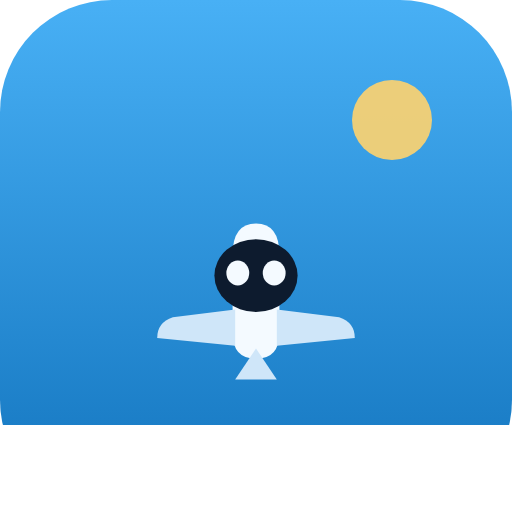
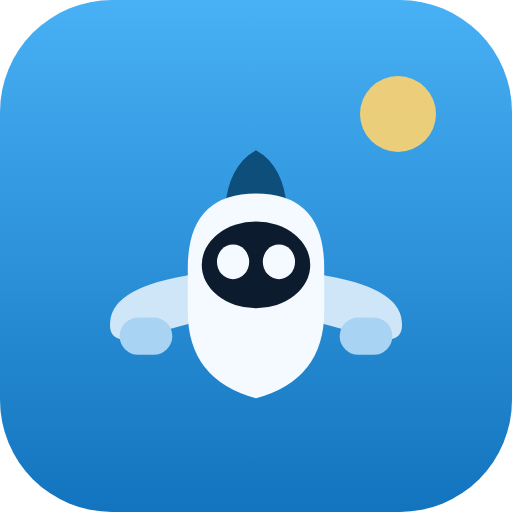
Redraw the plane mascots and make Lía a jefa de vuelo
- Avi is now a chubby widebody: wide fuselage, stubby wings, two fat
  engine nacelles, nose cone and correct navigation lights (red to port,
  green to starboard, as seen head-on)
- Jet is its opposite: slim fuselage, delta wings with winglets, aviator
  shades, orange belly stripe and afterburner
- Lía gets the flight purser look — service cap with a gold wing badge,
  neck scarf and rank stripes on both shoulders — and her role label
  changes from "Tripulante de cabina" to "Jefa de vuelo"; Rosa becomes
  "Instructora de cabina" so the two roles stay distinct
- The rank ladder uses the exam's own wording: "Jefe de vuelo" instead of
  "Jefe de cabina" (RAC hierarchy, exam question 25)
- App icon redrawn with the new widebody; the 192px PNG was a crop of the
  512px artwork's top-left corner, so all icons are re-rendered at their
  exact sizes

Claude-Session: https://claude.ai/code/session_01X74N5RUrDTr3YhcfPbwhmL

diff --git a/js/avatars.js b/js/avatars.js
@@ -23,29 +23,40 @@ CC.avatars = (function () {
   }
 
   const ART = {
-    /* ── Avión Avi ── */
+    /* ── Avi, el widebody regordete ── */
     avi: () => `
       <g>
-        <path d="M50 26 q9 0 9 12 v30 q0 10-9 10 t-9-10 V38 q0-12 9-12z" fill="#2FA8F5"/>
-        <path d="M18 62 q-6 2-6 8 l30 3 v-14z" fill="#1E86D0"/>
-        <path d="M82 62 q6 2 6 8 l-30 3 v-14z" fill="#1E86D0"/>
-        <path d="M50 74 l-8 12 h16z" fill="#1E86D0"/>
-        <ellipse cx="50" cy="46" rx="16" ry="14" fill="#EAF6FF"/>
-        ${face(50, 45, { spread: 7, eye: 4.4 })}
-        <circle cx="34" cy="80" r="3" fill="#FFB020"/><circle cx="66" cy="80" r="3" fill="#17C26A"/>
+        <path d="M50 12 q9 5 10 19 q-10-3-20 0 q1-14 10-19z" fill="#1A6FAE"/>
+        <path d="M30 52 q-26 4-27 15 q-1 7 7 6 l22-6z" fill="#1E86D0"/>
+        <path d="M70 52 q26 4 27 15 q1 7-7 6 l-22-6z" fill="#1E86D0"/>
+        <rect x="6" y="66" width="17" height="12" rx="6" fill="#15679E"/>
+        <rect x="77" y="66" width="17" height="12" rx="6" fill="#15679E"/>
+        <ellipse cx="14.5" cy="72" rx="4" ry="4.6" fill="#0E4E7B"/>
+        <ellipse cx="85.5" cy="72" rx="4" ry="4.6" fill="#0E4E7B"/>
+        <path d="M50 26 q22 0 22 24 v14 q0 22-22 28 q-22-6-22-28V50 q0-24 22-24z" fill="#2FA8F5"/>
+        <ellipse cx="50" cy="49" rx="17.5" ry="14" fill="#EAF6FF"/>
+        ${face(50, 48, { spread: 7.4, eye: 5.2 })}
+        <ellipse cx="50" cy="84" rx="11" ry="8" fill="#DCEBF8"/>
+        <circle cx="95" cy="73" r="2.8" fill="#FF4D5E"/><circle cx="5" cy="73" r="2.8" fill="#17C26A"/>
       </g>`,
 
-    /* ── Lía, tripulante de cabina ── */
+    /* ── Lía, jefa de vuelo ── */
     lia: () => `
       <g>
-        <path d="M28 88 q3-18 22-20 h0 q19 2 22 20z" fill="#123C6B"/>
-        <path d="M42 68 h16 v10 q-8 6-16 0z" fill="#F0C9A8"/>
-        <path d="M30 42 q0-20 20-20 t20 20 v10 q0 18-20 18T30 52z" fill="#F7D6B8"/>
-        <path d="M28 40 q4-22 22-22 t22 22 q-6-8-22-8T28 40z" fill="#3A2418"/>
-        <path d="M72 44 q8 4 6 14 q-6 2-8-6z" fill="#3A2418"/>
-        ${face(50, 46, { spread: 9, eye: 4.2 })}
-        <path d="M40 70 q10 8 20 0 l6 4 q-16 12-32 0z" fill="#E4443F"/>
-        <rect x="44" y="76" width="12" height="7" rx="3.5" fill="#F5C33B"/>
+        <path d="M27 88 q3-19 23-21 q20 2 23 21z" fill="#123C6B"/>
+        <path d="M40 66 h20 v11 q-10 7-20 0z" fill="#E8B88F"/>
+        <path d="M40 77 q10 8 20 0 l5 3 -15 11 -15-11z" fill="#E4443F"/>
+        <path d="M33 47 q0-20 17-20 t17 20 v8 q0 18-17 18T33 55z" fill="#F7D6B8"/>
+        <path d="M31 48 q1-24 19-24 t19 24 q2-12-19-14 T31 48z" fill="#5A3A26"/>
+        <path d="M69 49 q9 5 7 16 q-7 2-9-7z" fill="#5A3A26"/>
+        <path d="M31 31 q19-12 38 0 l-2 5 q-17-7-34 0z" fill="#16355E"/>
+        <path d="M33 25 q17-9 34 0 q1 6-17 6 t-17-6z" fill="#0E2547"/>
+        <path d="M43 26 q7-3 14 0 q-7 2-14 0z" fill="#F5C33B"/>
+        ${face(50, 49, { spread: 7, eye: 4.8 })}
+        <rect x="29" y="83" width="10" height="2.8" rx="1.4" fill="#F5C33B"/>
+        <rect x="29" y="87.5" width="10" height="2.8" rx="1.4" fill="#F5C33B"/>
+        <rect x="61" y="83" width="10" height="2.8" rx="1.4" fill="#F5C33B"/>
+        <rect x="61" y="87.5" width="10" height="2.8" rx="1.4" fill="#F5C33B"/>
       </g>`,
 
     /* ── Capitán Max ── */
@@ -127,16 +138,23 @@ CC.avatars = (function () {
         ${face(50, 46, { spread: 10, eye: 3.6, blush: true })}
       </g>`,
 
-    /* ── Jet, el reactor veloz ── */
+    /* ── Jet, el reactor delgado ── */
     jet: () => `
       <g>
-        <path d="M22 58 q10-8 28-8 h14 q12 0 16 10 q-4 10-16 10 H50 q-18 0-28-8z" fill="#3C4C66"/>
-        <path d="M44 50 l10-20 h6 l-4 20z" fill="#2B3950"/>
-        <path d="M46 68 l6 14 h6 l-4-14z" fill="#2B3950"/>
-        <ellipse cx="66" cy="60" rx="14" ry="10" fill="#EAF2FB"/>
-        ${face(68, 59, { spread: 6, eye: 3.8, wink: true })}
-        <path d="M22 54 q-12 2-16 6 q12 2 16 4z" fill="#FF8A3D"/>
-        <path d="M18 60 q-14 2-18 4 q10 2 18 2z" fill="#FFC04D"/>
+        <path d="M50 8 q5 8 5 16 l-10 0 q0-8 5-16z" fill="#2A3B55"/>
+        <path d="M41 46 l-35 30 q-2 2 1 3 l10-1 l26-20z" fill="#42597A"/>
+        <path d="M59 46 l35 30 q2 2-1 3 l-10-1 l-26-20z" fill="#42597A"/>
+        <path d="M8 77 l-4 10 q-1 3 2 3 l5-2 l1-11z" fill="#31435F"/>
+        <path d="M92 77 l4 10 q1 3-2 3 l-5-2 l-1-11z" fill="#31435F"/>
+        <path d="M50 14 q10 0 10 20 v24 q0 18-10 26 q-10-8-10-26V34 q0-20 10-20z" fill="#55708F"/>
+        <path d="M40 62 h20 v3.5 h-20z" fill="#FF8A3D" opacity=".9"/>
+        <path d="M38 37 q12-7 24 0 q1 8-12 8 t-12-8z" fill="#16263D"/>
+        <rect x="37" y="34.5" width="26" height="3.4" rx="1.7" fill="#0E1826"/>
+        <circle cx="43.5" cy="39" r="1.8" fill="#7FD4FF" opacity=".85"/>
+        <path d="M45 51 q5 3.5 10-1" stroke="#16263D" stroke-width="2.5" fill="none" stroke-linecap="round"/>
+        <path d="M45 82 q5 4 10 0 l-2.5 10 q-2.5 3.5-5 0z" fill="#FF8A3D"/>
+        <path d="M47 85 q3 2.5 6 0 l-1.5 6 q-1.5 2-3 0z" fill="#FFD166"/>
+        <circle cx="90" cy="84" r="2.5" fill="#FF4D5E"/><circle cx="10" cy="84" r="2.5" fill="#17C26A"/>
       </g>`,
 
     /* ── Nube Cumulita (compañera de racha) ── */
@@ -150,8 +168,8 @@ CC.avatars = (function () {
   };
 
   const LIST = [
-    { id: 'avi',    name: 'Avi',        role: 'Tu avión de cabecera',      how: 'Disponible desde el inicio', check: () => true },
-    { id: 'lia',    name: 'Lía',        role: 'Tripulante de cabina',      how: 'Disponible desde el inicio', check: () => true },
+    { id: 'avi',    name: 'Avi',        role: 'Widebody de cabecera',      how: 'Disponible desde el inicio', check: () => true },
+    { id: 'lia',    name: 'Lía',        role: 'Jefa de vuelo',             how: 'Disponible desde el inicio', check: () => true },
     { id: 'max',    name: 'Capitán Max', role: 'Comandante',               how: 'Alcanza el nivel 3',
       check: s => CC.store.level() >= 3 },
     { id: 'tito',   name: 'Tito',       role: 'Carro de servicio',         how: 'Completa 6 lecciones',
@@ -164,9 +182,9 @@ CC.avatars = (function () {
       check: () => CC.store.unitProgress('surv').pct >= 1 },
     { id: 'kit',    name: 'Kit',        role: 'Botiquín de a bordo',       how: 'Completa la unidad de primeros auxilios',
       check: () => CC.store.unitProgress('pa').pct >= 1 },
-    { id: 'rosa',   name: 'Rosa',       role: 'Jefa de cabina',            how: 'Mantén una racha de 7 días',
+    { id: 'rosa',   name: 'Rosa',       role: 'Instructora de cabina',     how: 'Mantén una racha de 7 días',
       check: s => s.streak.best >= 7 },
-    { id: 'jet',    name: 'Jet',        role: 'Reactor veloz',             how: 'Aprueba un simulacro de examen',
+    { id: 'jet',    name: 'Jet',        role: 'Reactor delgado y veloz',   how: 'Aprueba un simulacro de examen',
       check: s => (s.stats.examBest || 0) >= 70 },
     { id: 'luna',   name: 'Luna',       role: 'Vuelo nocturno',            how: 'Haz 100 repasos Anki',
       check: s => (s.stats.reviews || 0) >= 100 }

diff --git a/js/store.js b/js/store.js
@@ -12,7 +12,7 @@ CC.store = (function () {
     { min: 3,  name: 'Tripulante junior' },
     { min: 5,  name: 'TCP certificado' },
     { min: 7,  name: 'Sobrecargo' },
-    { min: 9,  name: 'Jefe de cabina' },
+    { min: 9,  name: 'Jefe de vuelo' },
     { min: 12, name: 'Instructor de cabina' }
   ];
 
